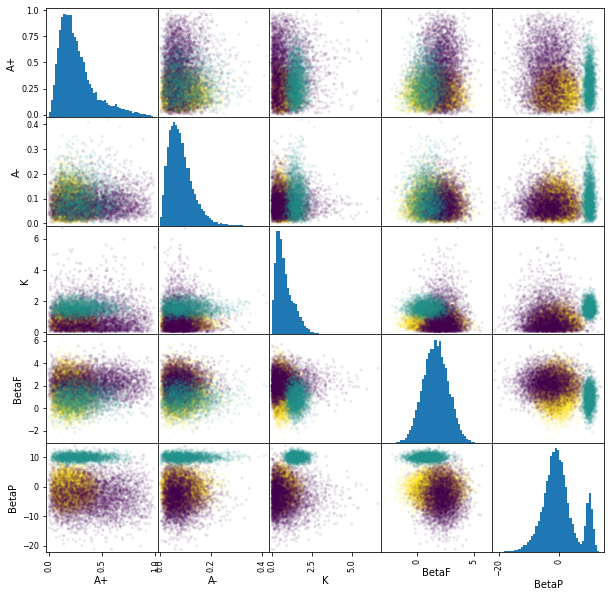
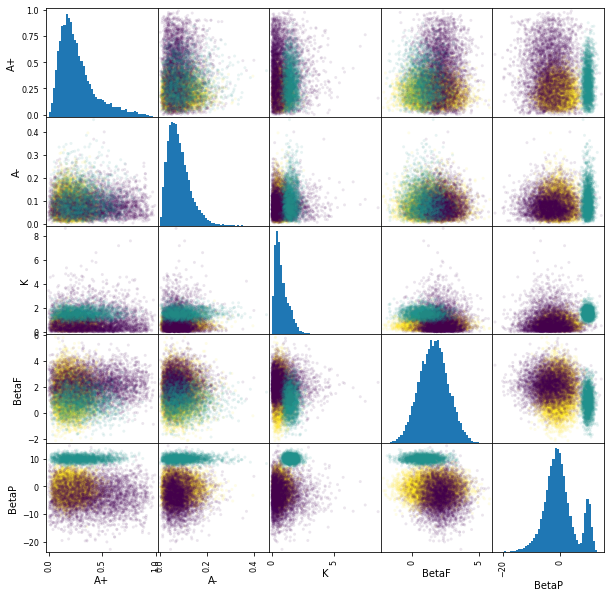
deploy: 676ace36778e7f5780771ed33da39181979f1145

diff --git a/synthetic_data.html b/synthetic_data.html
@@ -269,13 +269,11 @@
 <h2>Choosing the distributions<a class="headerlink" href="#choosing-the-distributions" title="Permalink to this headline">¶</a></h2>
 <p>The parameters seem to follow 3 distinct distributions:</p>
 <ul class="simple">
-<li><p>The <a class="reference external" href="https://en.wikipedia.org/wiki/Normal_distribution">Normal distribution</a>: Both <span class="math notranslate nohighlight">\(\beta_F\)</span> and <span class="math notranslate nohighlight">\(\beta_P\)</span> seem to be normally distributed. This is parameterised by the mean <span class="math notranslate nohighlight">\(\mu\)</span> (loc) and standard deviation <span class="math notranslate nohighlight">\(\sigma\)</span> (scale) of the data.<br />
-Details of the functions used to model this distribution can be found <a class="reference external" href="https://docs.scipy.org/doc/scipy/reference/generated/scipy.stats.norm.html">here</a>.</p></li>
-<li><p>The <a class="reference external" href="https://en.wikipedia.org/wiki/Beta_distribution">Beta(<span class="math notranslate nohighlight">\(\alpha\)</span>,<span class="math notranslate nohighlight">\(\beta\)</span>) distribution</a>: A+ and A- are within the range [0, 1], which means we can use this distribution to model them. The beta distribution can be used to model a large variety of distributions within this range with shape parameters <span class="math notranslate nohighlight">\(\alpha\)</span> and <span class="math notranslate nohighlight">\(\beta\)</span>.<br />
-Details of the functions used to model the distributions can be found <a class="reference external" href="https://docs.scipy.org/doc/scipy/reference/generated/scipy.stats.beta.html">here</a></p></li>
-<li><p>The <a class="reference external" href="https://en.wikipedia.org/wiki/Gamma_distribution">Gamma distribution</a>: Finally, the K parameter seems to roughly follow a poisson distribution which would represent the rate of decay. As the poisson distribution is only valid for integer values, we can use the gamma function as a continuous approximation. The gamma function is parameterised by shape <span class="math notranslate nohighlight">\(\alpha\)</span> and scale <span class="math notranslate nohighlight">\(\theta\)</span>.<br />
-Details of the functions used to model the distributions can be found <a class="reference external" href="https://docs.scipy.org/doc/scipy/reference/generated/scipy.stats.gamma.html">here</a></p></li>
+<li><p>The <a class="reference external" href="https://en.wikipedia.org/wiki/Normal_distribution">Normal distribution</a>: Both <span class="math notranslate nohighlight">\(\beta_F\)</span> and <span class="math notranslate nohighlight">\(\beta_P\)</span> seem to be normally distributed. This is parameterised by the mean <span class="math notranslate nohighlight">\(\mu\)</span> (loc) and standard deviation <span class="math notranslate nohighlight">\(\sigma\)</span> (scale) of the data.</p></li>
+<li><p>The <a class="reference external" href="https://en.wikipedia.org/wiki/Beta_distribution">Beta distribution</a>: A+ and A- are within the range [0, 1], which means we can use this distribution to model them. The beta distribution can be used to model a large variety of distributions within this range with shape parameters <span class="math notranslate nohighlight">\(\alpha\)</span> and <span class="math notranslate nohighlight">\(\beta\)</span>.</p></li>
+<li><p>The <a class="reference external" href="https://en.wikipedia.org/wiki/Gamma_distribution">Gamma distribution</a>: Finally, the K parameter seems to roughly follow a poisson distribution which would represent the rate of decay. As the poisson distribution is only valid for integer values, we can use the gamma function as a continuous approximation. The gamma function is parameterised by shape <span class="math notranslate nohighlight">\(\alpha\)</span> and scale <span class="math notranslate nohighlight">\(\theta\)</span>.</p></li>
 </ul>
+<p>Details of the functions used to model the distributions can be found here: <a class="reference external" href="https://docs.scipy.org/doc/scipy/reference/generated/scipy.stats.norm.html">Normal</a>, <a class="reference external" href="https://docs.scipy.org/doc/scipy/reference/generated/scipy.stats.beta.html">Beta</a>, <a class="reference external" href="https://docs.scipy.org/doc/scipy/reference/generated/scipy.stats.gamma.html">Gamma</a></p>
 </div>
 <div class="section" id="modelling-a-single-parameter">
 <h2>Modelling a single parameter<a class="headerlink" href="#modelling-a-single-parameter" title="Permalink to this headline">¶</a></h2>
@@ -507,43 +505,43 @@ Here we generate 5000 fake data points based on the entire dataset.</p>
   <tbody>
     <tr>
       <th>0</th>
-      <td>0.227911</td>
-      <td>0.115554</td>
-      <td>1.707967</td>
-      <td>1.173162</td>
-      <td>-12.478572</td>
+      <td>0.261309</td>
+      <td>0.168667</td>
+      <td>1.779280</td>
+      <td>1.730511</td>
+      <td>-1.495619</td>
     </tr>
     <tr>
       <th>1</th>
-      <td>0.075196</td>
-      <td>0.121740</td>
-      <td>1.256373</td>
-      <td>1.775510</td>
-      <td>-3.718412</td>
+      <td>0.078284</td>
+      <td>0.051535</td>
+      <td>1.707949</td>
+      <td>-0.321549</td>
+      <td>1.474896</td>
     </tr>
     <tr>
       <th>2</th>
-      <td>0.120966</td>
-      <td>0.064706</td>
-      <td>0.160554</td>
-      <td>1.818128</td>
-      <td>1.088247</td>
+      <td>0.069887</td>
+      <td>0.027349</td>
+      <td>0.190077</td>
+      <td>3.100703</td>
+      <td>7.771008</td>
     </tr>
     <tr>
       <th>3</th>
-      <td>0.250161</td>
-      <td>0.170665</td>
-      <td>2.426511</td>
-      <td>3.328632</td>
-      <td>3.929356</td>
+      <td>0.280990</td>
+      <td>0.110216</td>
+      <td>1.770626</td>
+      <td>1.809806</td>
+      <td>3.781819</td>
     </tr>
     <tr>
       <th>4</th>
-      <td>0.217432</td>
-      <td>0.044932</td>
-      <td>0.170430</td>
-      <td>2.909836</td>
-      <td>0.614961</td>
+      <td>0.144279</td>
+      <td>0.168102</td>
+      <td>1.097024</td>
+      <td>2.331919</td>
+      <td>1.293506</td>
     </tr>
   </tbody>
 </table>
@@ -993,102 +991,102 @@ Finally the <span class="math notranslate nohighlight">\(\beta_P\)</span> parame
   </thead>
   <tbody>
     <tr>
-      <th>1904</th>
-      <td>0.140479</td>
-      <td>0.112878</td>
-      <td>0.603330</td>
-      <td>0.632468</td>
-      <td>-1.360894</td>
+      <th>2965</th>
+      <td>0.400275</td>
+      <td>0.058571</td>
+      <td>0.934803</td>
+      <td>1.929026</td>
+      <td>4.281307</td>
       <td>young</td>
       <td>2</td>
     </tr>
     <tr>
-      <th>3374</th>
-      <td>0.017179</td>
-      <td>0.062540</td>
-      <td>1.070354</td>
-      <td>3.527746</td>
-      <td>-12.293052</td>
-      <td>old - type A</td>
-      <td>0</td>
-    </tr>
-    <tr>
-      <th>5401</th>
-      <td>0.060951</td>
-      <td>0.029223</td>
-      <td>0.441780</td>
-      <td>1.943659</td>
-      <td>4.049444</td>
+      <th>5440</th>
+      <td>0.077169</td>
+      <td>0.178693</td>
+      <td>0.285304</td>
+      <td>2.687541</td>
+      <td>2.052571</td>
       <td>young</td>
       <td>2</td>
     </tr>
     <tr>
-      <th>4458</th>
-      <td>0.178414</td>
-      <td>0.084280</td>
-      <td>1.277937</td>
-      <td>2.445875</td>
-      <td>-2.473125</td>
+      <th>3648</th>
+      <td>0.352947</td>
+      <td>0.185282</td>
+      <td>0.591703</td>
+      <td>1.080223</td>
+      <td>0.316973</td>
       <td>young</td>
       <td>2</td>
     </tr>
     <tr>
-      <th>4764</th>
-      <td>0.349365</td>
-      <td>0.036323</td>
-      <td>1.755568</td>
-      <td>4.540674</td>
-      <td>-0.450140</td>
+      <th>3896</th>
+      <td>0.221789</td>
+      <td>0.048638</td>
+      <td>0.613568</td>
+      <td>1.581120</td>
+      <td>1.723694</td>
       <td>young</td>
       <td>2</td>
     </tr>
     <tr>
-      <th>7694</th>
-      <td>0.134875</td>
-      <td>0.109999</td>
-      <td>0.533321</td>
-      <td>1.593879</td>
-      <td>-1.136153</td>
+      <th>7432</th>
+      <td>0.190310</td>
+      <td>0.086048</td>
+      <td>0.680496</td>
+      <td>-0.350009</td>
+      <td>-2.353153</td>
       <td>young</td>
       <td>2</td>
     </tr>
     <tr>
-      <th>8936</th>
-      <td>0.429102</td>
-      <td>0.087520</td>
-      <td>0.181590</td>
-      <td>1.669007</td>
-      <td>-2.400796</td>
+      <th>3528</th>
+      <td>0.105519</td>
+      <td>0.043896</td>
+      <td>0.606347</td>
+      <td>-0.178767</td>
+      <td>0.474887</td>
       <td>young</td>
       <td>2</td>
     </tr>
     <tr>
-      <th>1986</th>
-      <td>0.108300</td>
-      <td>0.107189</td>
-      <td>0.387203</td>
-      <td>2.047554</td>
-      <td>-3.519595</td>
+      <th>7423</th>
+      <td>0.114843</td>
+      <td>0.057351</td>
+      <td>0.329670</td>
+      <td>0.561362</td>
+      <td>-3.587337</td>
       <td>young</td>
       <td>2</td>
     </tr>
     <tr>
-      <th>5194</th>
-      <td>0.091881</td>
-      <td>0.021359</td>
-      <td>1.028345</td>
-      <td>3.010482</td>
-      <td>-4.483753</td>
+      <th>8149</th>
+      <td>0.221485</td>
+      <td>0.030208</td>
+      <td>0.449922</td>
+      <td>1.868200</td>
+      <td>-2.639348</td>
       <td>young</td>
       <td>2</td>
     </tr>
     <tr>
-      <th>1355</th>
-      <td>0.196939</td>
-      <td>0.025528</td>
-      <td>0.682759</td>
-      <td>3.273356</td>
-      <td>1.865040</td>
+      <th>1594</th>
+      <td>0.463105</td>
+      <td>0.062203</td>
+      <td>1.660785</td>
+      <td>0.320503</td>
+      <td>9.905021</td>
+      <td>old - type B</td>
+      <td>1</td>
+    </tr>
+    <tr>
+      <th>7429</th>
+      <td>0.131248</td>
+      <td>0.074713</td>
+      <td>0.764382</td>
+      <td>2.553813</td>
+      <td>1.204364</td>
       <td>young</td>
       <td>2</td>
     </tr>
